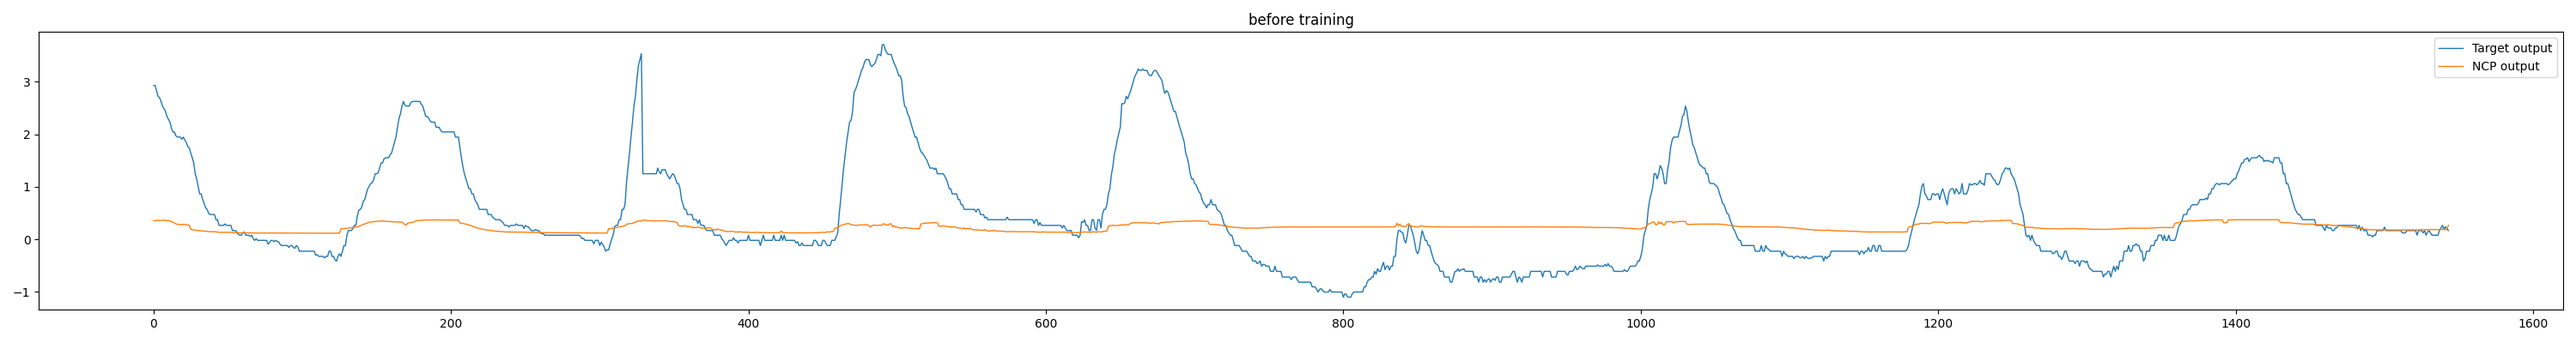
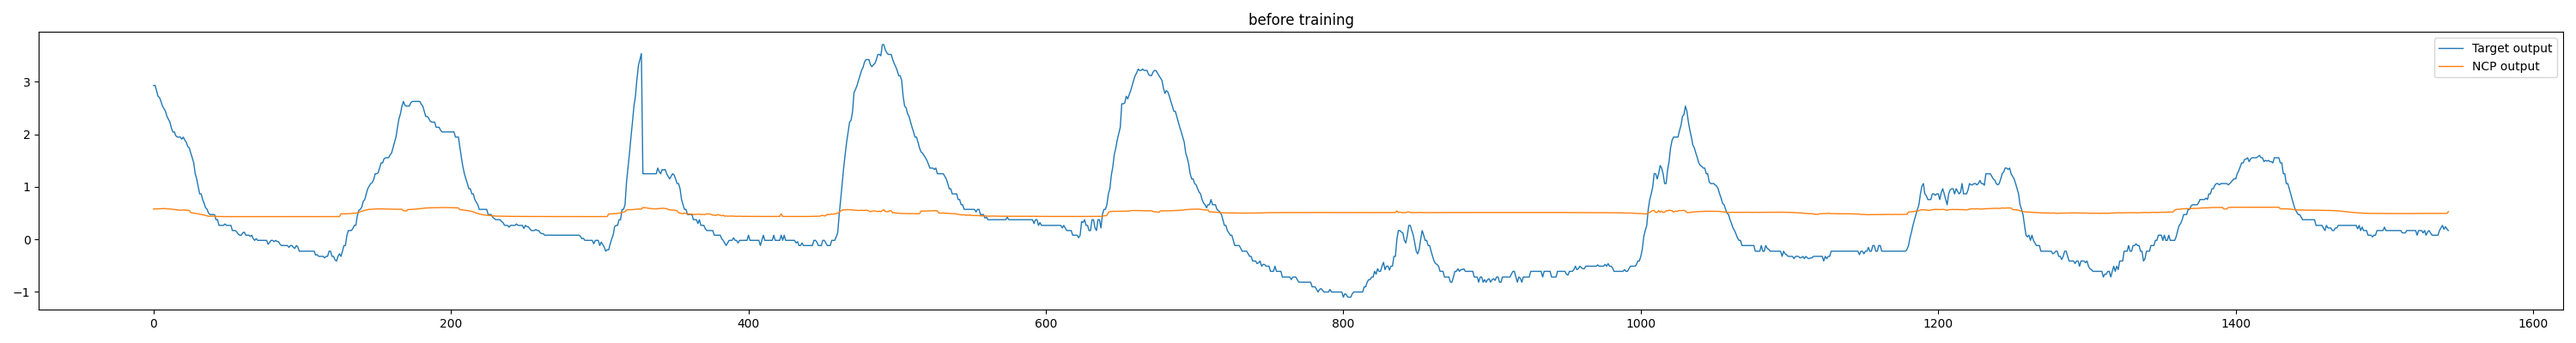
implemented to print all features

diff --git a/experiments_with_ltcs/forecast.py b/experiments_with_ltcs/forecast.py
@@ -89,9 +89,10 @@ class TrafficData:
         self.train_x = self.train_x[:,permutation[valid_size + test_size :]]
         self.train_y = self.train_y[:,permutation[valid_size + test_size :]]
 
+        self.feature_labels = ['Holiday','Temperature','Rain','Snow','Clouds','Weekday','Noon']
+
 
 class OccupancyData:
-
     def __init__(self,seq_len=32,future=1,batch_size=16):
 
         self.seq_len = seq_len
@@ -135,6 +136,7 @@ class OccupancyData:
 
         self.test_x = np.concatenate([test0_x,test1_x],axis=1)
         self.test_y = np.concatenate([test0_y,test1_y],axis=1)
+        self.feature_labels = ['Temperature', 'Humidity','Light','CO2','HumidityRatio']
 
 
     def read_file(self,filename):
@@ -168,6 +170,8 @@ class CheetahData:
         self.train_x, self.train_y = self._load_files(train_files)
         self.test_x, self.test_y = self._load_files(test_files)
         self.valid_x, self.valid_y = self._load_files(valid_files)
+        self.feature_labels = [f"vector {i}" for i in range(self.train_x.shape[2])]
+
 
     def _load_files(self,files):
         all_x = []
@@ -222,8 +226,11 @@ class ForecastModel:
 
     def fit(self,trial=None,_data=None,epochs=100,learning_rate=1e-2,cosine_lr=False,in_features=None,out_features=None,model_size=None,optimise=False,gpus=None):
             loss = torch.nn.MSELoss()
+            self.n_epochs = epochs
 
             self.future = _data.future
+            self.feature_labels = _data.feature_labels
+            self.in_features = in_features
             if not optimise:
                 self.model_size = model_size
                 if(self.model_type.startswith("ltc")):
@@ -289,8 +296,10 @@ class ForecastModel:
 
     def test(self):
         self.trainer.test(self.learn)
-
-        self.plot_test(version="after")
+        if self.n_epochs > 10: 
+            self.plot_test(version="after")
+        else:
+            self.plot_test(version="before")
 
     def plot_test(self,version="before"):
         y_list = []
@@ -303,19 +312,22 @@ class ForecastModel:
             y_hat = y_hat.view_as(y)
             y_list.append(y[:,-1,:])
             y_hat_list.append(y_hat[:,-1,:])
-        # y =(series) * (16,FEATURES)
         y = torch.cat(y_list,dim=0).detach().numpy()
         y_hat = torch.cat(y_hat_list,dim=0).detach().numpy()
 
-        plt.figure(figsize=(30, 4))
-        plt.plot(y[:,0], label="Target output",linewidth=1)
-        plt.plot(y_hat[:,0], label="NCP output",linewidth=1)
-        # plt.ylim((-1, 1))
-        plt.title(f"{version} training")
-        plt.legend(loc="upper right")
+        fig, axes = plt.subplots(self.in_features, 1, figsize=(30,4*self.in_features))
+        axes = axes.ravel()
+        for (feat_nr,ax) in zip(range(self.in_features),axes):
+            ax.plot(y[:,feat_nr],label="Target output",linewidth=1)
+            ax.plot(y_hat[:,feat_nr], label="NCP output",linewidth=1)
+            ax.set_title(f"{self.feature_labels[feat_nr]}",loc = 'left')
+            ax.legend(loc='upper right')
+
+        plt.suptitle(f"{version} training")
         plt.tight_layout()
         plt.savefig(f"predictions_{self.task}_{version}.png")
         plt.close()
+
 
 
 
